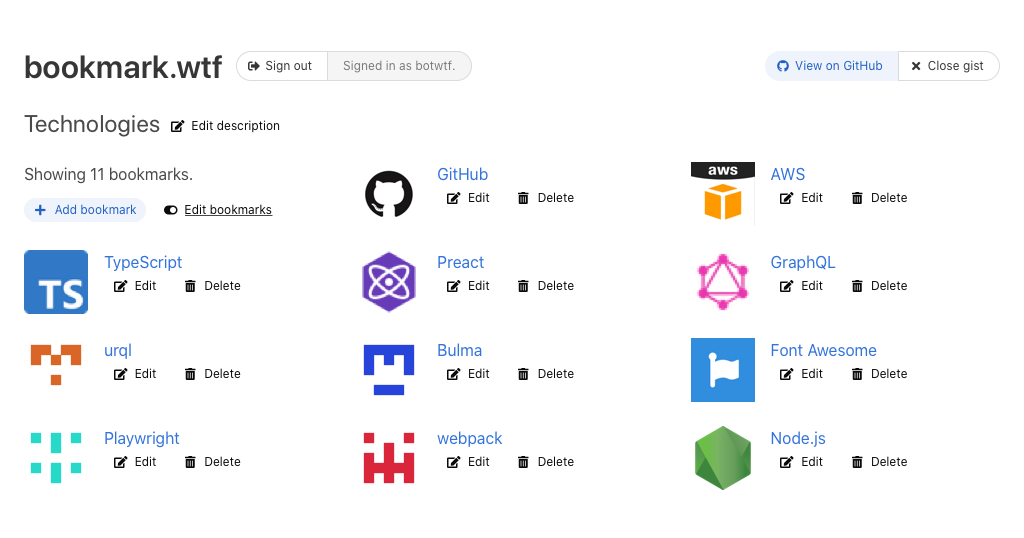
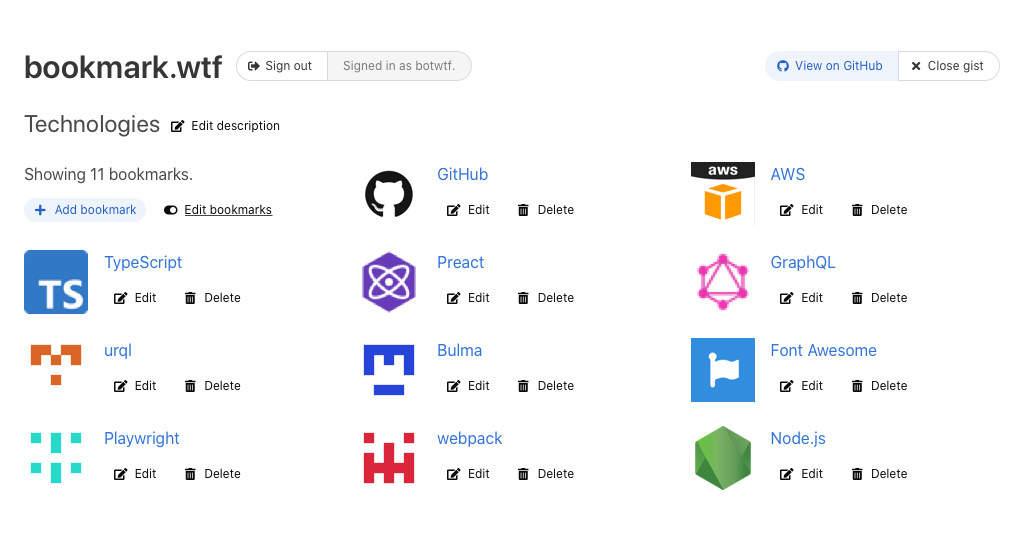
Fix layout of the bookmark list

diff --git a/src/components/lists/bookmark-list-item.tsx b/src/components/lists/bookmark-list-item.tsx
@@ -1,4 +1,5 @@
 import {
+  BulmaContent,
   BulmaIcon,
   BulmaMediaObject,
   BulmaTag,
@@ -89,13 +90,15 @@ export function BookmarkListItem({
           />
         }
       >
-        <BulmaText
-          href={gistFile.model.url}
-          tabIndex={-1}
-          onClick={countBookmarkClick}
-        >
-          {gistFile.model.title}
-        </BulmaText>
+        <BulmaContent>
+          <BulmaText
+            href={gistFile.model.url}
+            tabIndex={-1}
+            onClick={countBookmarkClick}
+          >
+            {gistFile.model.title}
+          </BulmaText>
+        </BulmaContent>
 
         {gistState.status === 'ready' && editable && (
           <BulmaTags>
